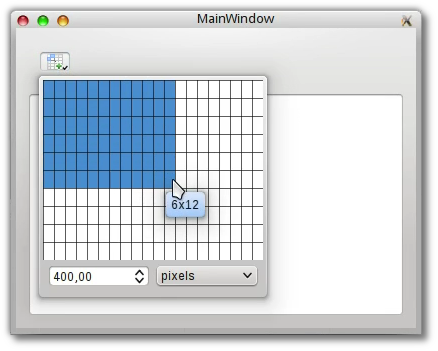
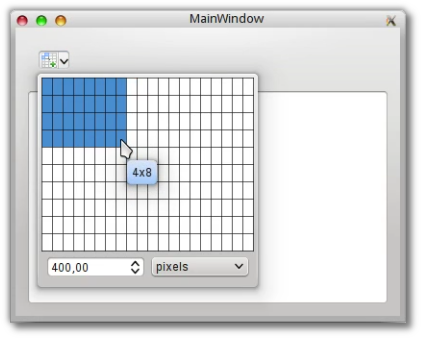
Add table settings dialog as default action, change button popup mode to MenuButtonPopup, update screenshot

diff --git a/TableSettingsDialog.cpp b/TableSettingsDialog.cpp
@@ -1,0 +1,115 @@
+#include "TableSettingsDialog.h"
+#include "ui_TableSettingsDialog.h"
+
+TableSettingsDialog::TableSettingsDialog(QWidget * parent) :
+    QDialog(parent),
+    ui(new Ui::TableSettingsDialog)
+{
+    ui->setupUi(this);
+
+    ui->warningLine->clear();
+    ui->warningLine->setHidden(true);
+
+    QComboBox * pTableWidthModeComboBox = ui->tableWidthModeComboBox;
+    pTableWidthModeComboBox->addItem(QObject::tr("pixels"));
+    pTableWidthModeComboBox->addItem(QObject::tr("% of page width"));
+    pTableWidthModeComboBox->setCurrentIndex(1);
+
+    QObject::connect(ui->buttonBox, SIGNAL(accepted()), this, SLOT(onOkButtonPressed()));
+    QObject::connect(ui->buttonBox, SIGNAL(rejected()), this, SLOT(onCancelButtonPressed()));
+}
+
+TableSettingsDialog::~TableSettingsDialog()
+{
+    delete ui;
+}
+
+int TableSettingsDialog::numRows() const
+{
+    return m_numRows;
+}
+
+int TableSettingsDialog::numColumns() const
+{
+    return m_numColumns;
+}
+
+double TableSettingsDialog::tableWidth() const
+{
+    return m_tableWidth;
+}
+
+bool TableSettingsDialog::relativeWidth() const
+{
+    return m_relativeWidth;
+}
+
+void TableSettingsDialog::onOkButtonPressed()
+{
+    QString error;
+    bool res = verifySettings(error);
+    if (!res) {
+        ui->warningLine->setText(QString("<font color=red>") + error + QString("</font>"));
+        ui->warningLine->setHidden(false);
+        return;
+    }
+
+    if (!ui->warningLine->isHidden()) {
+        ui->warningLine->clear();
+        ui->warningLine->setHidden(true);
+    }
+
+    m_numRows = static_cast<int>(ui->numRowsSpinBox->value());
+    m_numColumns = static_cast<int>(ui->numColumnsSpinBox->value());
+    m_tableWidth = ui->tableWidthDoubleSpinBox->value();
+    m_relativeWidth = checkRelativeWidth();
+
+    accept();
+}
+
+void TableSettingsDialog::onCancelButtonPressed()
+{
+    reject();
+}
+
+bool TableSettingsDialog::verifySettings(QString & error) const
+{
+    int numRows = ui->numRowsSpinBox->value();
+    if ((numRows < 1) || (numRows > 30)) {
+        error = QObject::tr("Number of rows should be between 1 and 30");
+        return false;
+    }
+
+    int numColumns = ui->numColumnsSpinBox->value();
+    if ((numColumns < 1) || (numColumns > 30)) {
+        error = QObject::tr("Number of columns should be between 1 and 30");
+        return false;
+    }
+
+    double tableWidth = ui->tableWidthDoubleSpinBox->value();
+    int intTableWidth = static_cast<int>(tableWidth);
+
+    bool tableRelativeWidth = checkRelativeWidth();
+    if (tableRelativeWidth)
+    {
+        if ((intTableWidth < 1) || (intTableWidth > 100)) {
+            error = QObject::tr("Relative table width should be between 1 and 100");
+            return false;
+        }
+    }
+    else
+    {
+        if ((intTableWidth < 1) || (intTableWidth > 999999999)) {
+            error = QObject::tr("Bad table width in pixels number");
+            return false;
+        }
+    }
+
+    return true;
+}
+
+bool TableSettingsDialog::checkRelativeWidth() const
+{
+    int comboBoxValueIndex = ui->tableWidthModeComboBox->currentIndex();
+    return (comboBoxValueIndex == 1);
+}

diff --git a/InsertTableToolButton.cpp b/InsertTableToolButton.cpp
@@ -23,6 +23,7 @@
 */
 
 #include "InsertTableToolButton.h"
+#include "TableSettingsDialog.h"
 #include "TableSizeSelectorActionWidget.h"
 #include "TableSizeConstraintsActionWidget.h"
 #include <QMenu>
@@ -41,12 +42,33 @@ InsertTableToolButton::InsertTableToolButton(QWidget * parent) :
 
     setMenu(m_menu);
 
+    QAction * showTableSettingsDialogAction = new QAction(this);
+    QObject::connect(showTableSettingsDialogAction, SIGNAL(triggered(bool)), this, SLOT(onTableSettingsDialogAction()));
+
+    setDefaultAction(showTableSettingsDialogAction);
+
     QObject::connect(sizeSelectorAction, SIGNAL(tableSizeSelected(int,int)), this, SLOT(onTableSizeChosen(int,int)));
     QObject::connect(constraintsSelectorAction, SIGNAL(chosenTableWidthConstraints(double,bool)),
                      this, SLOT(onTableSizeConstraintsChosen(double,bool)));
 
     m_currentWidth = constraintsSelectorAction->width();
     m_currentWidthIsRelative = constraintsSelectorAction->isRelative();
+}
+
+void InsertTableToolButton::onTableSettingsDialogAction()
+{
+    QScopedPointer<TableSettingsDialog> tableSettingsDialogHolder(new TableSettingsDialog(this));
+    TableSettingsDialog * tableSettingsDialog = tableSettingsDialogHolder.data();
+    if (tableSettingsDialog->exec() == QDialog::Accepted)
+    {
+        int numRows = tableSettingsDialog->numRows();
+        int numColumns = tableSettingsDialog->numColumns();
+        double tableWidth = tableSettingsDialog->tableWidth();
+        bool relativeWidth = tableSettingsDialog->relativeWidth();
+
+        onTableSizeChosen(numRows, numColumns);
+        onTableSizeConstraintsChosen(tableWidth, relativeWidth);
+    }
 }
 
 void InsertTableToolButton::onTableSizeChosen(int rows, int columns)

diff --git a/TableSettingsDialog.h b/TableSettingsDialog.h
@@ -22,29 +22,43 @@
 * THE SOFTWARE.
 */
 
-#ifndef __INSERT_TABLE_TOOL_BUTTON_H__
-#define __INSERT_TABLE_TOOL_BUTTON_H__
+#ifndef __TABLE_SETTINGS_DIALOG_H
+#define __TABLE_SETTINGS_DIALOG_H
 
-#include <QToolButton>
+#include <QDialog>
 
-class InsertTableToolButton : public QToolButton
+namespace Ui {
+class TableSettingsDialog;
+}
+
+class TableSettingsDialog : public QDialog
 {
     Q_OBJECT
+
 public:
-    explicit InsertTableToolButton(QWidget * parent = 0);
+    explicit TableSettingsDialog(QWidget * parent = 0);
+    ~TableSettingsDialog();
 
-Q_SIGNALS:
-    void createdTable(int rows, int columns, double width, bool relative);
+    int numRows() const;
+    int numColumns() const;
+    double tableWidth() const;
+    bool relativeWidth() const;
 
-private Q_SLOTS:
-    void onTableSettingsDialogAction();
-    void onTableSizeChosen(int rows, int columns);
-    void onTableSizeConstraintsChosen(double width, bool relative);
+public Q_SLOTS:
+    void onOkButtonPressed();
+    void onCancelButtonPressed();
 
 private:
-    double      m_currentWidth;
-    bool        m_currentWidthIsRelative;
-    QMenu *     m_menu;
+    bool verifySettings(QString & error) const;
+    bool checkRelativeWidth() const;
+
+private:
+    Ui::TableSettingsDialog *ui;
+
+    int     m_numRows;
+    int     m_numColumns;
+    double  m_tableWidth;
+    bool    m_relativeWidth;
 };
 
-#endif // __INSERT_TABLE_TOOL_BUTTON_H__
+#endif // __TABLE_SETTINGS_DIALOG_H
